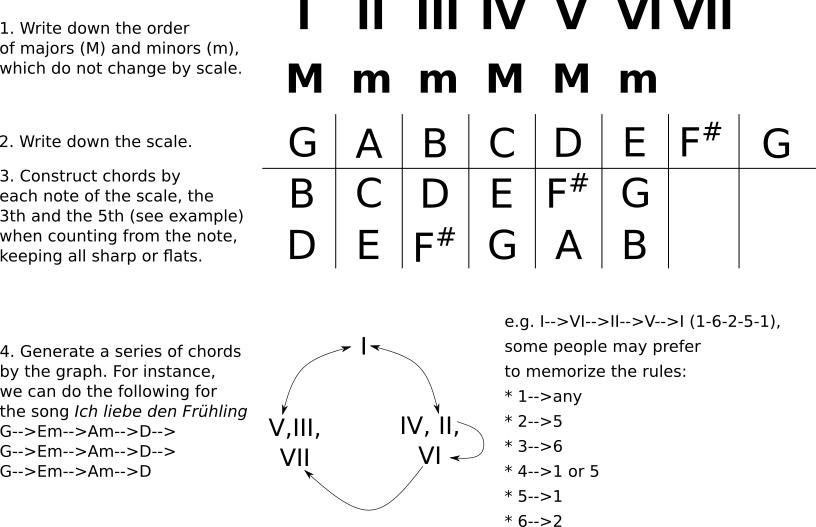
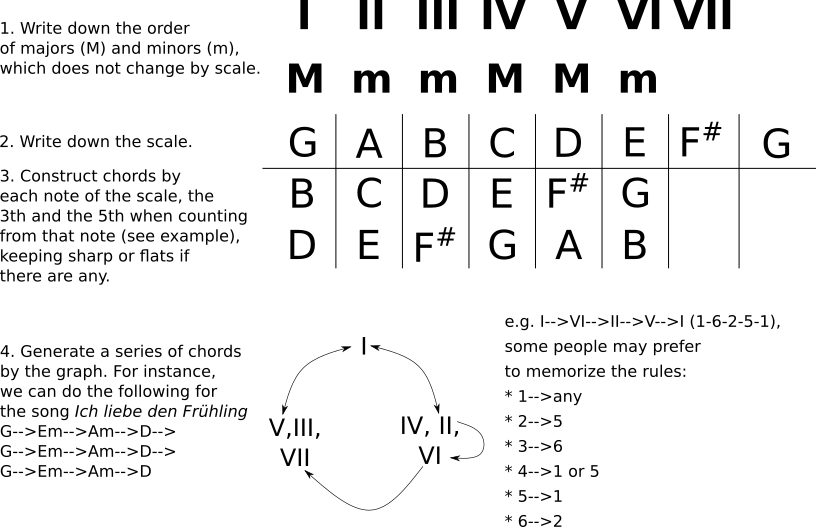
fix typo, and add link to the song

diff --git a/_posts/2020-06-14-chord-sequence-1-6-2-5-1.md b/_posts/2020-06-14-chord-sequence-1-6-2-5-1.md
@@ -9,6 +9,10 @@ theory. Inspired by her, I summarize the technique introduced by her in the cour
 
 The principle can be applied to any scale (any key), and can be generalized beyond the sequence of &ldquo;1-6-2-5-1&rdquo;. If you have any question, please refer to the lesson by Karen above.
 
+I used the technique to arrange the chords for the children's song [Ich liebe
+den Frühling/ I love the spring/ 我爱春天
+](https://musescore.com/user/32500761/scores/6165050).
+
 Enjoy music, enjoy the Sunday!
 
 <p>
